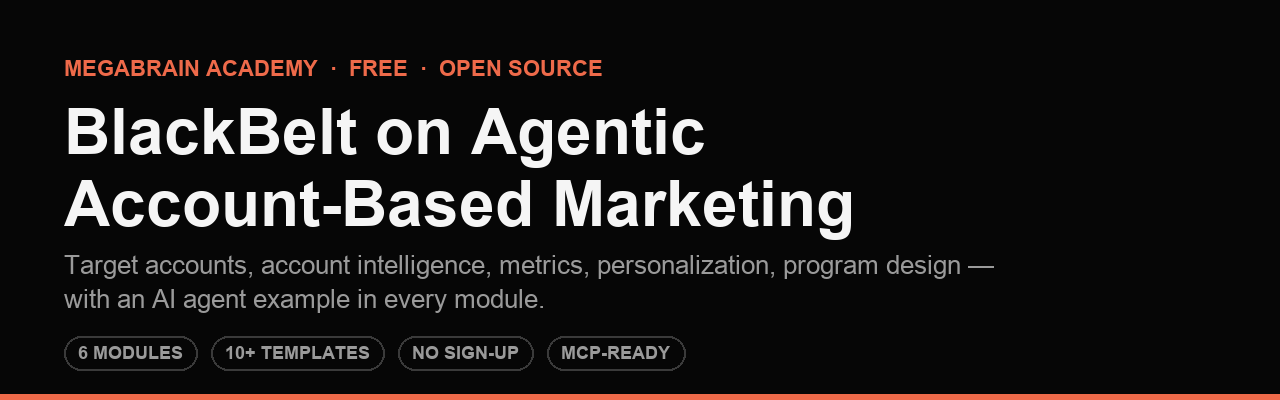
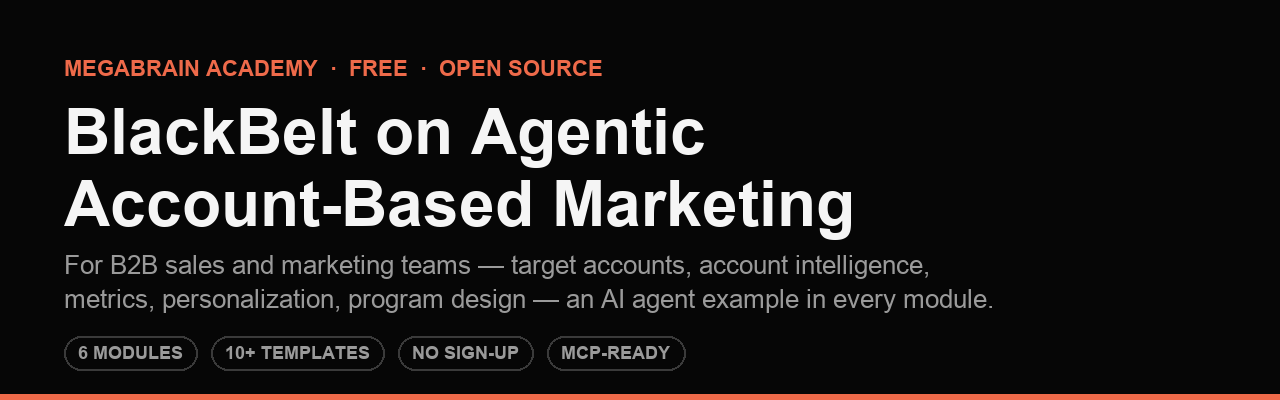
Frame course for sales and marketing teams, not marketing-only
The course leans heavily into sales work (account research, stakeholder
mapping) alongside marketing (personas, content, program design) — make
that explicit in the course README, root README listing, and hero
banner rather than reading as marketing-only.

Changed region(s): [[0.0312, 0.72, 0.7812, 0.78], [0.0312, 0.63, 0.7812, 0.69]]

diff --git a/courses/blackbelt-agentic-abm/README.md b/courses/blackbelt-agentic-abm/README.md
@@ -11,7 +11,7 @@
 
 ## Run ABM like it's your job to hit pipeline, not vanity metrics.
 
-**BlackBelt on Agentic Account Based Marketing (ABM)** is a practitioner's course on ABM for B2B: pick the right target accounts, research them properly, personalize offer and content, build a program, prove it moved revenue — and see where an AI agent can run each step for you. Adapted from a training delivered inside enterprise marketing and sales orgs.
+**BlackBelt on Agentic Account Based Marketing (ABM)** is a practitioner's course on ABM for B2B sales and marketing teams: pick the right target accounts, research them properly, personalize offer and content, build a program, prove it moved revenue — and see where an AI agent can run each step for you. Adapted from a training delivered inside enterprise marketing and sales orgs.
 
 No sign-up. Every module ships with notes, a slide deck, and the working templates.
 

diff --git a/README.md b/README.md
@@ -106,7 +106,7 @@ courses/
 
 | Course | Description |
 |--------|--------------|
-| [BlackBelt on Agentic ABM](courses/blackbelt-agentic-abm/README.md) | Free 6-module course on Account-Based Marketing for B2B — target accounts, account intelligence, metrics, personalization, and program design, with an AI agent example in every module |
+| [BlackBelt on Agentic ABM](courses/blackbelt-agentic-abm/README.md) | Free 6-module course on Account-Based Marketing for B2B sales and marketing teams — target accounts, account intelligence, metrics, personalization, and program design, with an AI agent example in every module |
 
 ---
 
